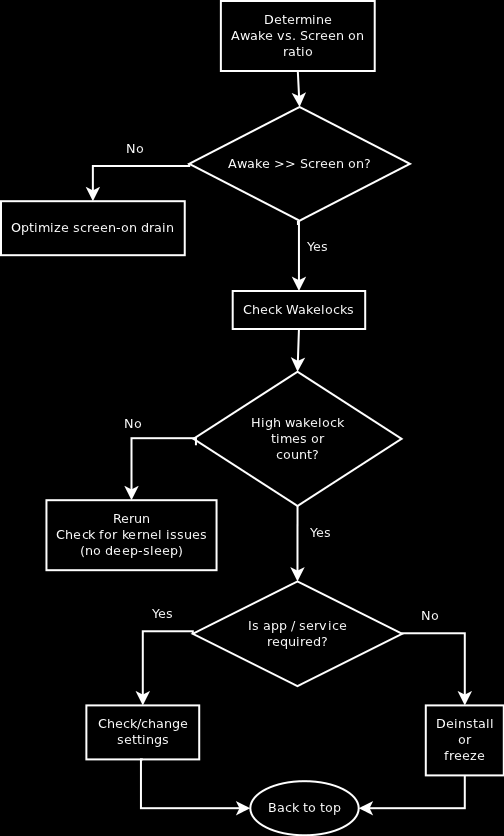
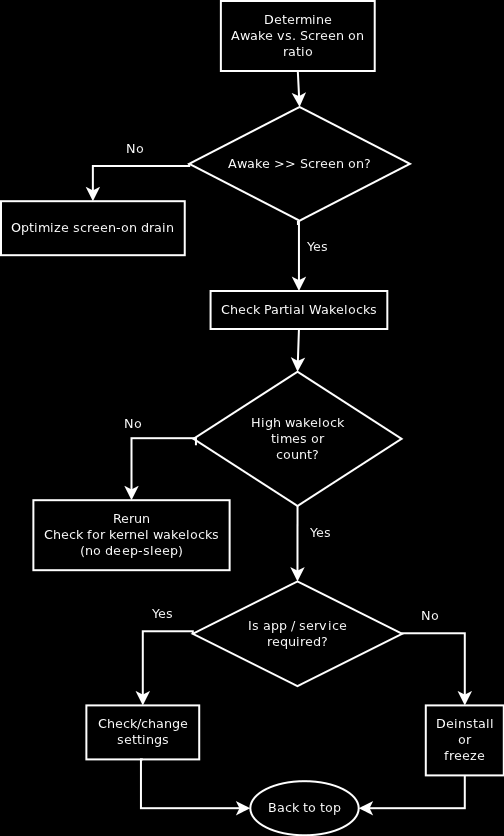
Updated doc for v1.4.2

Changed region(s): [[0.0595, 0.5909, 0.4762, 0.6842], [0.4167, 0.3421, 0.7738, 0.4043]]

diff --git a/BetterBatteryStats/assets/help.html b/BetterBatteryStats/assets/help.html
@@ -27,13 +27,14 @@
 
 <p id="intro">Here you will find details about the views and options of BetterBatteryStatistics are organised. Further information about using BetterBatteryStats is located in the how-tos.</p>
 <h2>Views</h2>
-<p>These are the three statistics:
+<p>These are the four statistics:
 <ul>
 	<li>Other: shows total times the different part of the phone have been on (display, wifi, bluetooth)</li>
 	<li>Partial wakelocks: shows the total time and the count of partial wakelocks by application</li>
+	<li>Kernel Wakelocks: shows the total time and the count of kernel wakelocks</li>
 	<li>Processes: shows the cpu time (user and system) processes have consumed</li>
 </ul></p>
-<p>and these are the possible timespans:
+<p>and these are the possible timespans (except for kernel wakelocks that always are "since boot"):
 <ul>
 	<li>Since changed: all statitics give details since the phone was 100% charged</li>
 	<li>Since unplugged: all statitics give details since the phone was unplugged from A/C or USB</li>
@@ -66,6 +67,10 @@ The graph bars show the percentage depending on the preferences (see above).
 Even if the total time is low it is important to check for high counts as well. A large number of short wake periods can have a huge impact on the awake time as the phone takes some time to wake up and some time to go back to sleep. This is not shown in this stat.
 For example let's assume the phone takes 1/2 second to wake up and sleep again. For a wakelock of 10 seconds the resulting awake time would be 11 seconds. For 10 wakelocks of 0,1 seconds the total wakelock time would be as low as 1 second but the awake time would be 11 seconds. 
 </p>
+<h3>Kernel wakelocks</h3>
+<p>
+Like for partial wakelocks as well long running wakelocks as wakelocks with a high count (large number of wakeups) should be taken into acount.
+</p>
 <h3>Processes</h3>
 <p>
 The list shows the processes and their CPU consumption during the timespan. CPU consumption is expressed in user CPU and system CPU and both times are shown in the total and in the bar graph with different colors.
@@ -75,11 +80,13 @@ The list shows the processes and their CPU consumption during the timespan. CPU 
 <ul>
 	<li>Preferences</li>
 	<li>Refresh</li>
+	<li>Order By/li>
 	<li>Actions</li>
 	<ul>
 		<li>Dump to file: writes the statistics to /sdcard/BetterBatteryStats.log</li>
 		<li>Set Custom Reference: set a custom begin mark for a statitic</li>
-		<li>Battery History: shows a graph of battery usage (Gingerbread only)</li>
+		<li>History: shows different graphs like battery usage or wakeups (starting from android 2.3)</li>
+		<li>Alarms: a tool for analysing partial wakelocks caused by AlarmManager</li>
 	</ul>
 	<li>Help: access to this help was well as the how-to</li>
 </ul>

diff --git a/BetterBatteryStats/assets/howto.html b/BetterBatteryStats/assets/howto.html
@@ -30,16 +30,21 @@ This document provides an insight about how to use BetterBatteryStats to reduce 
 <img src="howto.png" alt="flowchart"/><br/><br/><br/>
 <h2>Determine awake vs. screen on ratio</h2>
 <p>
-The awake vs. screen on ratio tells you how much time your phone has spent with the display being off but not being in the optimal deep-sleep mode. During this time the reason why your phone is not going to deep-sleep or is being woken up from deep-sleep is caused by background processes (services, apps reacting on different events). These use partial wakelocks to prevent your phone from reaching its optimal state of deep-sleep. The good news is we can change this to some extent and by doing so improve the battery life dramatically.
+The awake vs. screen on ratio tells you how much time your phone has spent with the display being off but not being in the optimal deep-sleep mode. During this time the reason why your phone is not going to deep-sleep or is being woken up from deep-sleep is caused by background processes (services, apps reacting on different events, kernel). These use partial wakelocks or kernel wakelocks to prevent your phone from reaching its optimal state of deep-sleep. The good news is we can change this to some extent and by doing so improve the battery life dramatically.
 </p>
 
-<h2>Check wakelocks</h2>
+<h2>Check partial wakelocks</h2>
 <p>
 Go to the "Partial wakelocks" statistic and check the list. The wakelocks are sorted by time in descending order. In the first step we want to check for high times (minutes or more), once there are no hot spots left we want to look at the high counts.
 </p>
+
+<h2>Check for kernel wakelocks</h2>
+<p>
+Besides applications causing awake times by holding partial wakelocks certain events at kernel level can cause awake by holding kernel wakelocks (in response to events like incoming network traffic or in response to services requested by applications (e.g. data traffic). 
+</p>
 <H2>Deinstall or freeze</H2>
 <p>
-Once a cause for wakelocks has been spotted you have to ask yourself if you even use that app. If not disable/deinstall/freeze it.
+Once a cause for partial wakelocks has been spotted you have to ask yourself if you even use that app. If not disable/deinstall/freeze it.
 Go back to the start and take another reading to see the effect of the action.
 </p>
 <h2>Check / change settings</h2>

diff --git a/BetterBatteryStats/assets/wakelocks.html b/BetterBatteryStats/assets/wakelocks.html
@@ -24,8 +24,7 @@
 	
 <h2>BetterBatteryStats<span>Wakelocks</span></h2> 
 <div id="content"> 
-
-<p id="intro">The available knowledge about partial wakelocks will be made available here.</p>
+<p id="intro">Specific knowledge about partial wakelocks and kernel wakelocks is available inline in BetterBatteryStats. This information can also be accessed in the <a href="https://github.com/asksven/BetterBatteryStats-Knowledge-Base/wiki/_pages">wiki</a></p>
 
 <br />	
 	<nav class=""> 

diff --git a/BetterBatteryStats/assets/readme.html b/BetterBatteryStats/assets/readme.html
@@ -24,6 +24,12 @@
 	
 <h2>BetterBatteryStats<span>Release Notes</span></h2> 
 <div id="content"> 
+<h2>v1.4.2.0 2011-11-20</h2>
+<p>
+<ul>
+	<li>Various fixes for kernel wakelocks and alarms</li>
+</ul>
+
 <h2>v1.4.0.0 2011-11-18</h2>
 <p>
 <ul>
